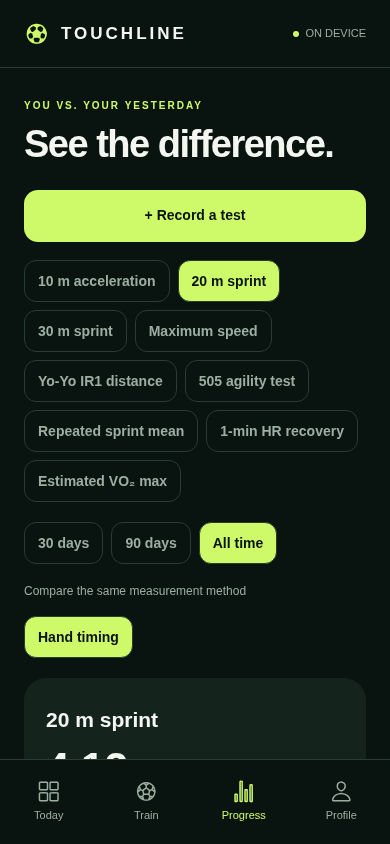
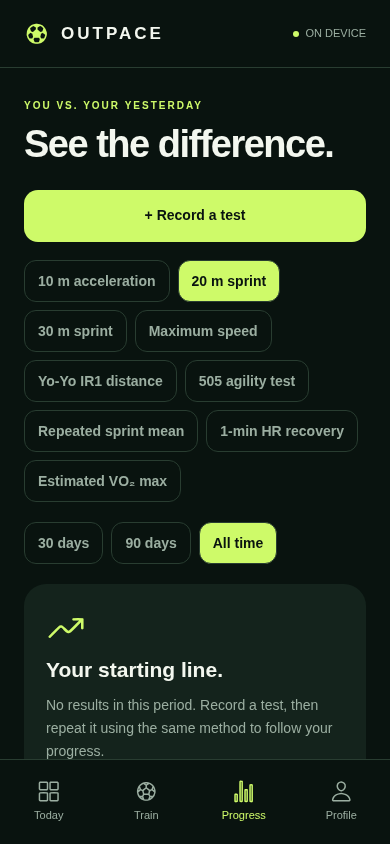
Rename app and release assets to Outpace while preserving installed data

Changed region(s): [[0.0615, 0.6777, 0.6154, 0.8009], [0.1231, 0.8318, 0.8308, 0.9242], [0.1538, 0.0308, 0.4615, 0.0616]]

diff --git a/App.tsx b/App.tsx
@@ -133,7 +133,7 @@ const fmt = (n: number) =>
   `${Math.floor(n / 60)}:${String(Math.floor(n % 60)).padStart(2, "0")}`;
 function notify(message: string) {
   if (Platform.OS === "web") globalThis.alert(message);
-  else Alert.alert("Touchline", message);
+  else Alert.alert("Outpace", message);
 }
 export default function App() {
   const [data, setData] = useState<State>(initialState),
@@ -193,7 +193,7 @@ export default function App() {
   if (!ready)
     return (
       <SafeAreaView style={s.root}>
-        <Text style={[s.title, { margin: 30 }]}>TOUCHLINE</Text>
+        <Text style={[s.title, { margin: 30 }]}>OUTPACE</Text>
         <Text style={[s.body, { margin: 30 }]}>
           {error || "Getting your pitch ready…"}
         </Text>
@@ -207,7 +207,7 @@ export default function App() {
         <View style={s.brand}>
           <View style={s.row}>
             <Ionicons name="football" size={25} color={C.lime} />
-            <Text style={s.brandText}>TOUCHLINE</Text>
+            <Text style={s.brandText}>OUTPACE</Text>
           </View>
           <View style={s.local}>
             <View style={s.dot} />
@@ -529,7 +529,7 @@ export default function App() {
                     onPress={() =>
                       Share.share({
                         message: JSON.stringify(data, null, 2),
-                        title: "Touchline backup",
+                        title: "Outpace backup",
                       }).catch(() => notify("Export was unavailable."))
                     }
                   />
@@ -1386,7 +1386,7 @@ function Restore({
     <>
       <FormHead title="Restore your backup." onCancel={onCancel} />
       <Text style={s.body}>
-        Paste an exported Touchline JSON backup. Restoring replaces all current
+        Paste an exported Outpace JSON backup. Restoring replaces all current
         data.
       </Text>
       <Field label="Backup JSON" value={raw} onChange={R} multiline />

diff --git a/README.md b/README.md
@@ -1,4 +1,4 @@
-# Touchline
+# Outpace
 
 A local-first football training app for iOS and Android, built with Expo / React Native and TypeScript. No account or backend is required. The optional web build is useful for previews (its storage is browser-local).
 
@@ -58,7 +58,7 @@ The launcher icon, Android adaptive icon, web favicon, and native startup splash
 
 Use this `football` directory as the GitHub repository root (the directory containing `package.json` and `.github`). The workflow at `.github/workflows/android-apk.yml` runs on pull requests and pushes to `main` / `master`, and can also be started from **Actions → Build Android APK → Run workflow**.
 
-The workflow installs locked dependencies, runs unit tests and TypeScript, generates the native Android project with Expo, and builds a standalone release-variant APK. Download `touchline-android-preview-<run number>` from the completed run's **Artifacts** section. Unzip it, transfer `touchline-preview.apk` to the phone, and allow installation from that source if Android asks. Artifacts expire after 14 days; a SHA-256 checksum is included.
+The workflow installs locked dependencies, runs unit tests and TypeScript, generates the native Android project with Expo, and builds a standalone release-variant APK. Download `outpace-android-preview-<run number>` from the completed run's **Artifacts** section. Unzip it, transfer `outpace-preview.apk` to the phone, and allow installation from that source if Android asks. Artifacts expire after 14 days; a SHA-256 checksum is included.
 
 No Expo account, EAS subscription, or repository secrets are needed. The APK bundles its JavaScript and runs without Metro or Expo Go. It supports ARM64 phones and x86_64 emulators. It uses Expo's generated development signing key, so treat it as a testing build. Production/Google Play distribution will require a private release signing key and a separate signing workflow. Changing signing keys can require uninstalling the previous app, so export your local data first.
 
@@ -71,3 +71,5 @@ Every successful push build on `main` or `master` now publishes a GitHub prerele
 The workflow sets Android `versionCode` to `github.run_number` before Expo prebuild. The app version stays at the `expo.version` value in `app.json`. Release tags use `v<app version>-build.<run number>` (for example, `v1.0.0-build.6`). Failed runs can leave gaps in the sequence. Reruns keep the same number and preserve an already-published release; an interrupted draft upload can be retried. Version edits happen only in the runner, with no automatic commits or push loops. Builds are not canceled when another push arrives.
 
 Open the repository's **Releases** page or the build's summary for a direct install download. Installing a higher build number with the same app ID and signing key should update the installed app while keeping its data. The existing manually published preview remains available.
+
+The installed app name and visible branding are Outpace. The original application IDs (`app.touchline.training`) and local storage key are retained for update and data compatibility with earlier previews.
